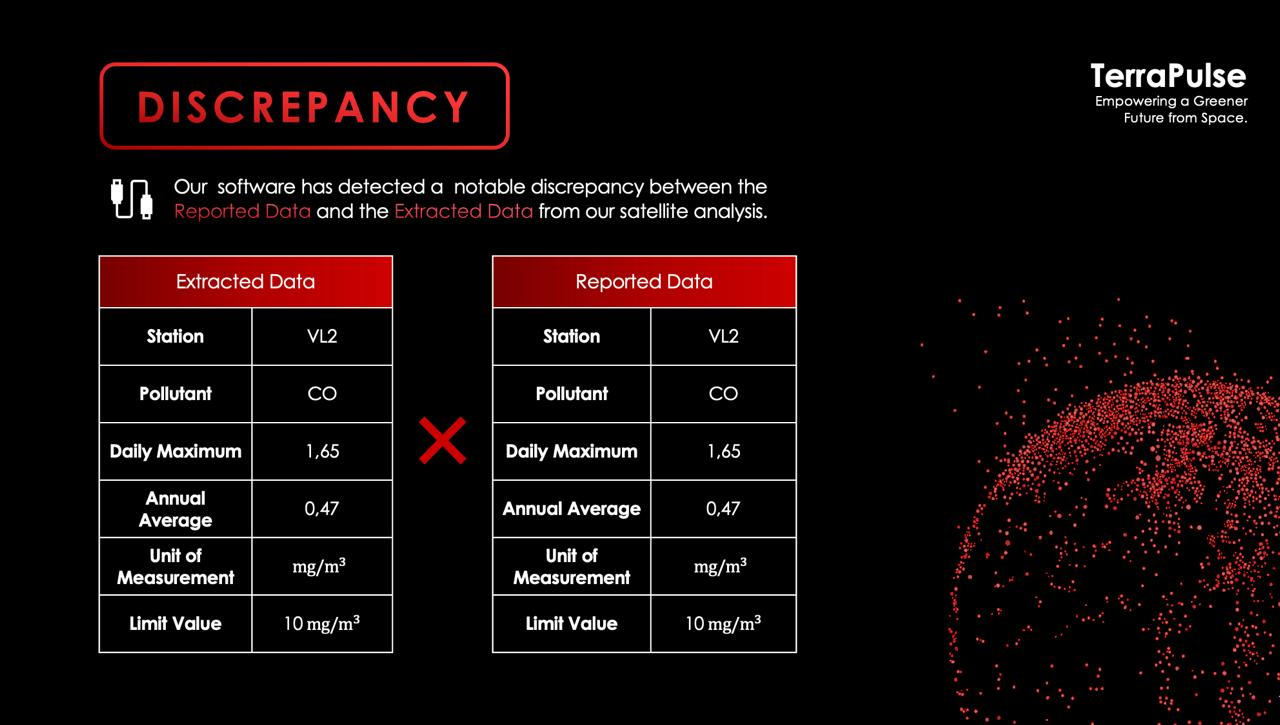
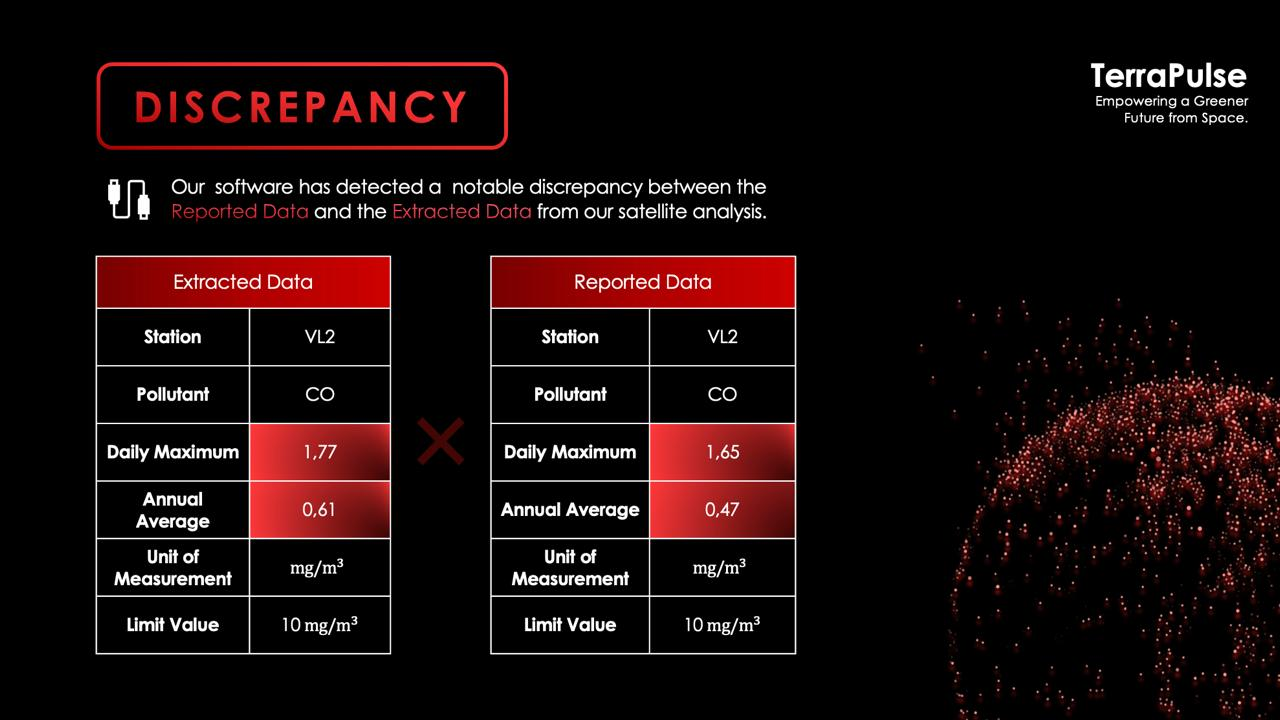
final adjustments

diff --git a/frontend/src/app/components/map/map.component.ts b/frontend/src/app/components/map/map.component.ts
@@ -20,8 +20,7 @@ export class MapComponent implements OnInit{
 
   ngOnInit() {
     this.customIcon = L.icon({
-      iconUrl: 'http://leafletjs.com/examples/custom-icons/leaf-red.png',
-      shadowUrl: 'http://leafletjs.com/examples/custom-icons/leaf-shadow.png',
+      iconUrl: 'http://leafletjs.com/examples/custom-icons/leaf-green.png',
       iconSize: [25, 41],
       iconAnchor: [12, 41],
       popupAnchor: [1, -34],
@@ -31,8 +30,8 @@ export class MapComponent implements OnInit{
     this.configMap();
     this.map.on("click", (e: L.LeafletMouseEvent)=> {
       const coordinates = e.latlng;
+      setTimeout(() => this.isMarkerPlaced.emit(true), 1000);
       this.addMarker(coordinates);
-      this.isMarkerPlaced.emit(true);
     })
   }
 
@@ -42,10 +41,17 @@ export class MapComponent implements OnInit{
       zoom: 4,
     })
 
-    L.tileLayer('https://{s}.basemaps.cartocdn.com/dark_all/{z}/{x}/{y}{r}.png', {
-      attribution: '&copy; <a href="https://www.openstreetmap.org/copyright">OpenStreetMap</a> contributors &copy; <a href="https://carto.com/attributions">CARTO</a>',
-      maxZoom: 19
+    // L.tileLayer('https://{s}.basemaps.cartocdn.com/dark_all/{z}/{x}/{y}{r}.png', {
+    //   attribution: '&copy; <a href="https://www.openstreetmap.org/copyright">OpenStreetMap</a> contributors &copy; <a href="https://carto.com/attributions">CARTO</a>',
+    //   subdomains: 'abcd',
+    //   maxZoom: 19
+    // }).addTo(this.map);
+
+    L.tileLayer('https://server.arcgisonline.com/ArcGIS/rest/services/Canvas/World_Dark_Gray_Base/MapServer/tile/{z}/{y}/{x}', {
+      attribution: '&copy; <a href="https://www.esri.com">Esri</a> &mdash; Esri, DeLorme, NAVTEQ',
+      maxZoom: 8
     }).addTo(this.map);
+
   }
 
   addMarker(latlng: L.LatLng) {

diff --git a/frontend/src/app/pages/landing-page/landing-page.component.ts b/frontend/src/app/pages/landing-page/landing-page.component.ts
@@ -98,8 +98,8 @@ export class LandingPageComponent implements OnInit {
       {
         station: "VL2",
         pollutant: "CO",
-        dailyMaximum: 1.65,
-        annualAverage: 0.47,
+        dailyMaximum: 1.77,
+        annualAverage: 0.61,
         measurementUnit: "mg/m^3",
         limitValue: "10mg/m^3(/8h)"
       },

diff --git a/frontend/src/app/pages/landing-page/landing-page.component.html b/frontend/src/app/pages/landing-page/landing-page.component.html
@@ -24,8 +24,8 @@
         chooseLabel="Choose"
         chooseIcon="pi pi-upload"
         name="demo[]"
-        accept="image/*"
-        maxFileSize="1000000"
+        accept="image/*, application/pdf"
+        maxFileSize="30000000"
         (onSelect)="uploadReport($event)"/>
       <p-button
         label="Analyze"

diff --git a/frontend/src/app/pages/discrepancy-page/result-page.component.scss b/frontend/src/app/pages/discrepancy-page/result-page.component.scss
@@ -7,6 +7,6 @@
   width: 100%;
   height: 105vh;
   overflow: hidden;
-  background-image: url("/assets/successBackground.jpeg");
+  background-image: url("/assets/discrepancyBackground.jpeg");
   background-size: contain;
 }
